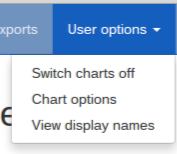
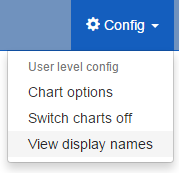
Updating displaynames doc. Still need to update the screenshot of the table of systems to show that it is now split by modality.

diff --git a/docs/i_displaynames.rst b/docs/i_displaynames.rst
@@ -38,12 +38,12 @@ Viewing x-ray system display names
 .. figure:: img/UserOptionsMenu.png
    :align: right
    :alt: User options menu
-   :width: 177px
-   :height: 154px
+   :width: 179px
+   :height: 173px
 
-   The ``User options`` menu
+   The ``Config`` menu (user)
 
-If you log in as a normal user then the ``User options`` menu becomes available
+If you log in as a normal user then the ``Config`` menu becomes available
 at the right-hand end of the navigation bar at the top of the screen.
 
 The third option, ``View display names``, takes you to a page where you can
@@ -64,14 +64,14 @@ Changing x-ray system display names
 .. figure:: img/AdminMenu.png
    :align: right
    :alt: Admin menu
-   :width: 284px
-   :height: 153px
+   :width: 235px
+   :height: 313px
 
-   The ``Admin`` menu
+   The ``Config`` menu (admin)
 
 If you wish to make changes to a display name then you must log in as a user
 that is in the ``admingroup``. You will then be able to use the
-``View and edit display names`` item under the ``Admin`` menu:
+``View and edit display names`` item under the ``Config`` menu:
 
 This will take you to a page where you can view the list of x-ray systems with
 data in OpenREM. If you wish to change a display name then click on the
